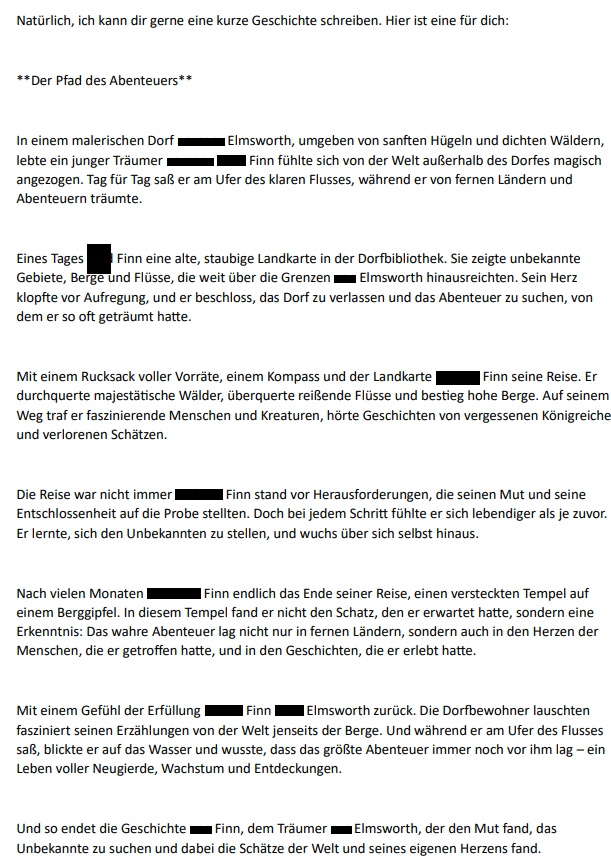
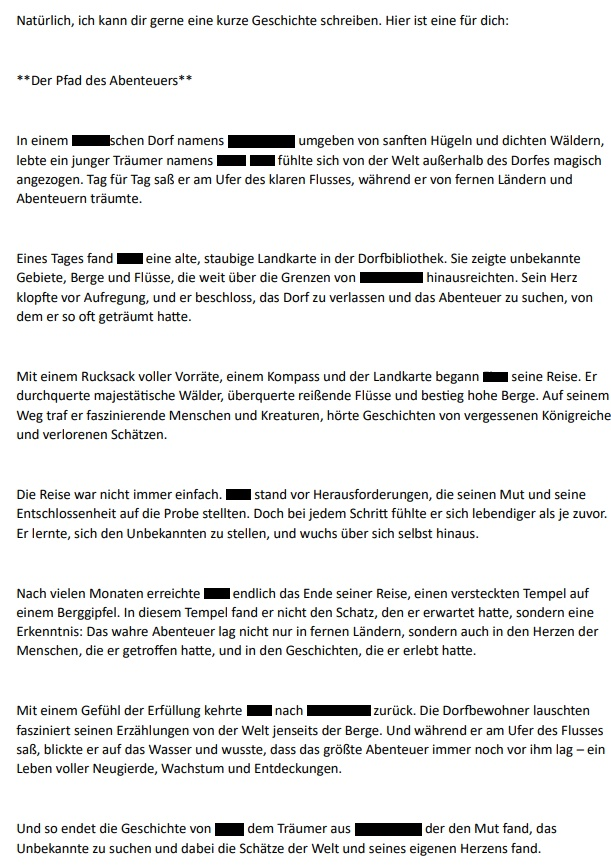
v7_Image_Detection

diff --git a/src/v7/detectTextInImage.py b/src/v7/detectTextInImage.py
@@ -43,6 +43,30 @@ def Text_Process(img, output_path, processed_text, data):
       processed_data = [item for item in processed_data if item.strip() != '']
       processed_data = [item for item in processed_data if item.strip() != ' ']
 
+      raw_data = [item for item in data['text'] if item.strip() != '']
+      raw_data = [item for item in raw_data if item.strip() != ' ']
+
+      for i in range(len(raw_data)):
+            if raw_data[i] in processed_data[i] or processed_data[i] in raw_data[i]:
+                  pass
+            elif "[MASKED]" in processed_data[i]:
+                  pass
+            else:
+                  processed_data.insert(i-1, "[MASKED]")
+
+      differences = []
+      differences = []
+
+      for index, (a, b) in enumerate(zip(processed_data, raw_data)):
+            if a != b:
+                  differences.append((index, a, b))
+
+      print("Differences:")
+      for index, a, b in differences:
+            print(f"Index {index}: {a} != {b}")
+
+
+
       masked_indexes = []
       sorted_indexes = []
       for index in range(0, len(processed_data)):
@@ -58,12 +82,12 @@ def Text_Process(img, output_path, processed_text, data):
                   mi_i += 1
 
 
+      processed_masked = []
 
-
-     # print(masked_indexes)
-     # print(sorted_indexes)
-     # print(processed_data)
-     # print(data['text'])
+      print(masked_indexes)
+      print(sorted_indexes)
+      print(processed_data)
+      print(data['text'])
 
       for i in range(len(data['level'])):
             if i in sorted_indexes:

diff --git a/src/v7/detectTextInImagev2.py b/src/v7/detectTextInImagev2.py
@@ -1,12 +1,27 @@
 import cv2
 import easyocr
 import matplotlib.pyplot as plt
-
-
-img = cv2.imread('images/Test.jpg')
+import numpy as np
+from PIL import Image
 
 reader = easyocr.Reader(['en'], gpu=False)
+result = reader.readtext('images/Test.jpg')
 
-text = reader.readtext(img)
+# Create lists to store words, coordinates, and confidence scores
+words = []
+coordinates = []
+confidences = []
 
-print(text)
+# Iterate through each result entry
+for detection in result:
+    text = detection[1]  # Extract the recognized text
+    bbox = detection[0]  # Extract the bounding box coordinates
+    confidence = detection[2]  # Extract the confidence score
+
+    words.append(text)
+    coordinates.append(bbox)
+    confidences.append(confidence)
+
+# Print the extracted words and their coordinates
+for i in range(len(words)):
+    print(f"Word: {words[i]}, Coordinates: {coordinates[i]}, Confidence: {confidences[i]}")

diff --git a/src/v7/openai_api_V5.py b/src/v7/openai_api_V5.py
@@ -11,10 +11,11 @@ OPENAI_API_KEY = os.getenv('OPENAI_API_KEY')
 openai.api_key = OPENAI_API_KEY
 
 def remove_personal_data(file_content):
-    print(file_content)
+
     system_template: str = (
         "You are a text redaction assistant. Your task is to process this text [FILE-CONTENT] and return the same "
         "text but replace all instances of personal data such as names, addresses, IBANs and social security numbers "
+        "etc..."
         "with [MASKED]. Ensure that no sensitive information is left visible and return the modified text in plain "
         "text form. If you encounter any Syntax or Semantic errors do not correct them"
     )
@@ -36,7 +37,7 @@ def remove_personal_data(file_content):
 
         result = chat(system_message, prompt_message)
         results.append(result)
-    print(''.join(results))
+
     return ''.join(results)
 
 def chat(system_content, prompt_content):
